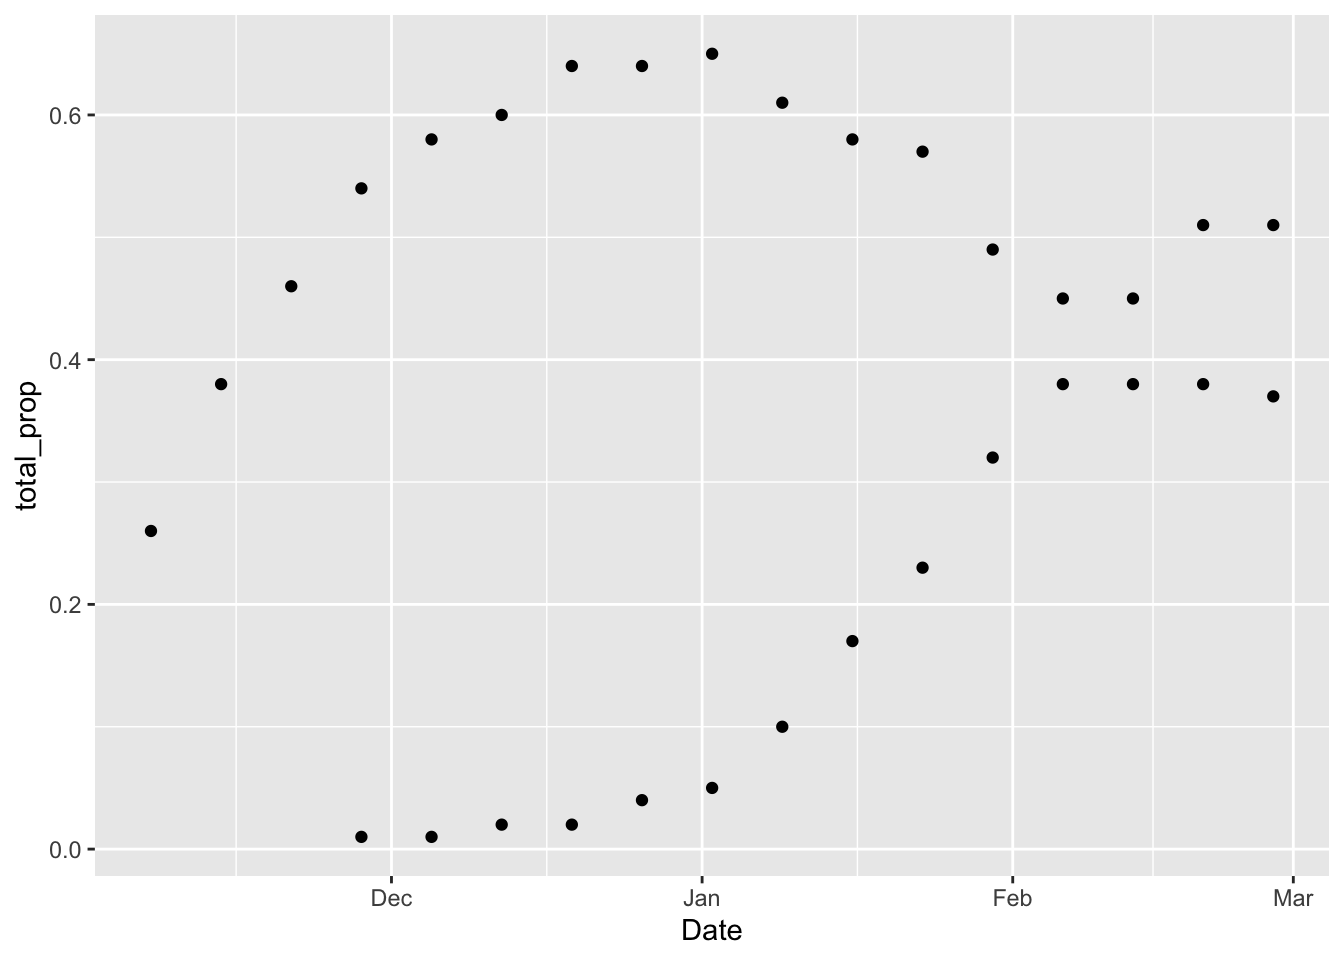
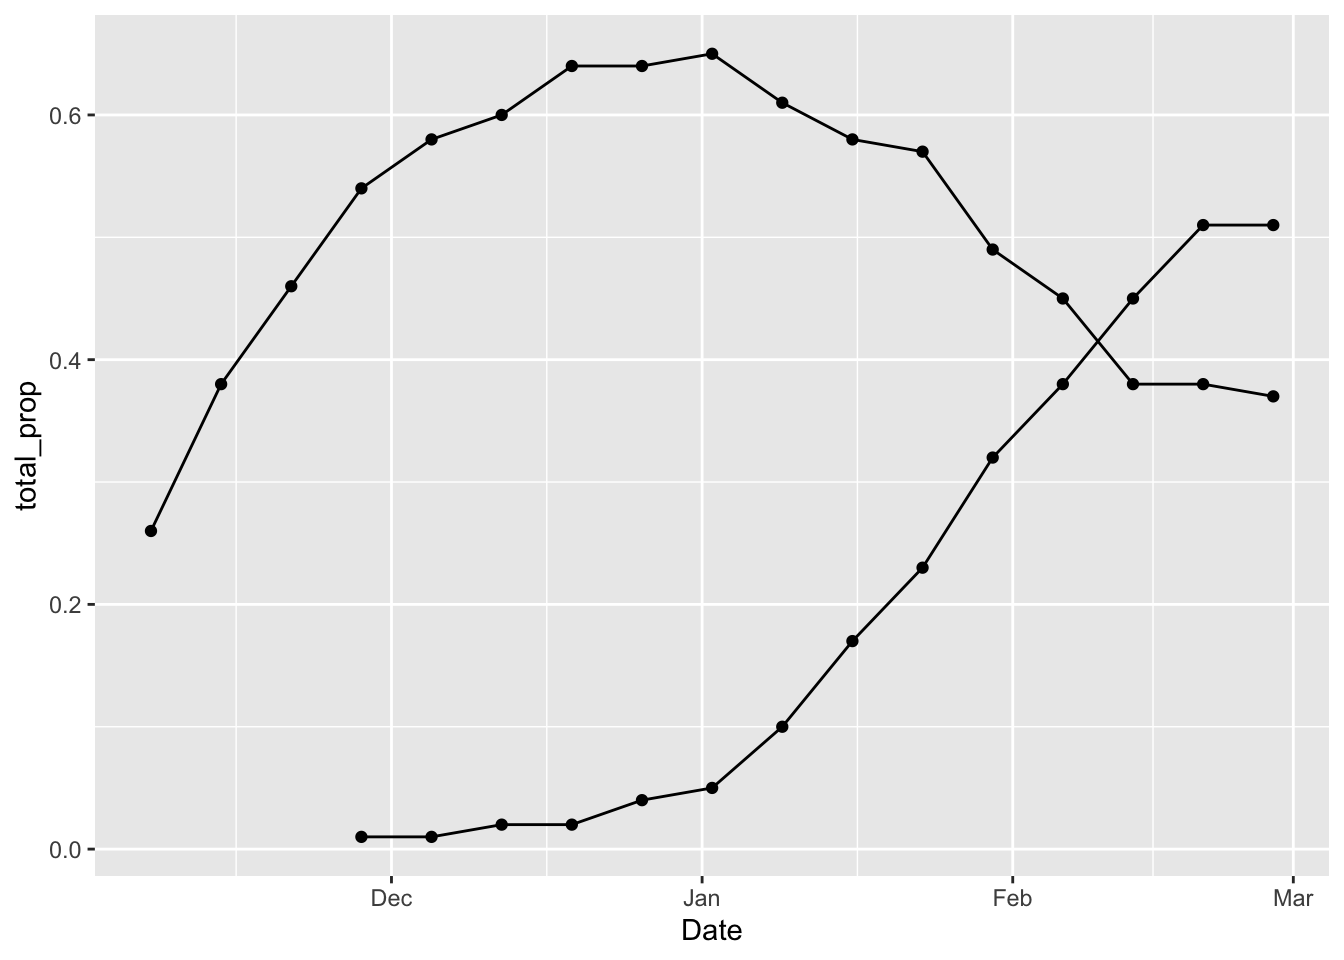
update

diff --git a/docs/mar-24-assignment-selection-for-covid-19-variants.html b/docs/mar-24-assignment-selection-for-covid-19-variants.html
@@ -318,8 +318,9 @@ code span.wa { color: #60a0b0; font-weight: bold; font-style: italic; } /* Warni
 <div class="sourceCode" id="cb57"><pre class="sourceCode r"><code class="sourceCode r"><span id="cb57-1"><a href="mar-24-assignment-selection-for-covid-19-variants.html#cb57-1" aria-hidden="true" tabindex="-1"></a>data2 <span class="ot">=</span> data2<span class="sc">%&gt;%</span><span class="fu">mutate</span>(<span class="at">log_percent =</span> <span class="fu">log</span>(total_prop))</span>
 <span id="cb57-2"><a href="mar-24-assignment-selection-for-covid-19-variants.html#cb57-2" aria-hidden="true" tabindex="-1"></a></span>
 <span id="cb57-3"><a href="mar-24-assignment-selection-for-covid-19-variants.html#cb57-3" aria-hidden="true" tabindex="-1"></a>g3 <span class="ot">=</span><span class="fu">ggplot</span>(data2, <span class="fu">aes</span>(<span class="at">x =</span> Date, <span class="at">y =</span> total_prop, <span class="at">group=</span>group)) <span class="sc">+</span> </span>
-<span id="cb57-4"><a href="mar-24-assignment-selection-for-covid-19-variants.html#cb57-4" aria-hidden="true" tabindex="-1"></a>  <span class="fu">geom_point</span>()</span>
-<span id="cb57-5"><a href="mar-24-assignment-selection-for-covid-19-variants.html#cb57-5" aria-hidden="true" tabindex="-1"></a>g3</span></code></pre></div>
+<span id="cb57-4"><a href="mar-24-assignment-selection-for-covid-19-variants.html#cb57-4" aria-hidden="true" tabindex="-1"></a>  <span class="fu">geom_point</span>() <span class="sc">+</span></span>
+<span id="cb57-5"><a href="mar-24-assignment-selection-for-covid-19-variants.html#cb57-5" aria-hidden="true" tabindex="-1"></a>  <span class="fu">geom_line</span>()</span>
+<span id="cb57-6"><a href="mar-24-assignment-selection-for-covid-19-variants.html#cb57-6" aria-hidden="true" tabindex="-1"></a>g3</span></code></pre></div>
 <p><img src="BIOL-3295_files/figure-html/unnamed-chunk-35-1.png" width="672" />
 I want to do the linear regression, but to do this I ended up splitting out the XBB* and QB* variants:</p>
 <div class="sourceCode" id="cb58"><pre class="sourceCode r"><code class="sourceCode r"><span id="cb58-1"><a href="mar-24-assignment-selection-for-covid-19-variants.html#cb58-1" aria-hidden="true" tabindex="-1"></a>XBB <span class="ot">=</span> <span class="fu">filter</span>(data2, group <span class="sc">==</span> <span class="st">&quot;XBB*&quot;</span>)</span>
